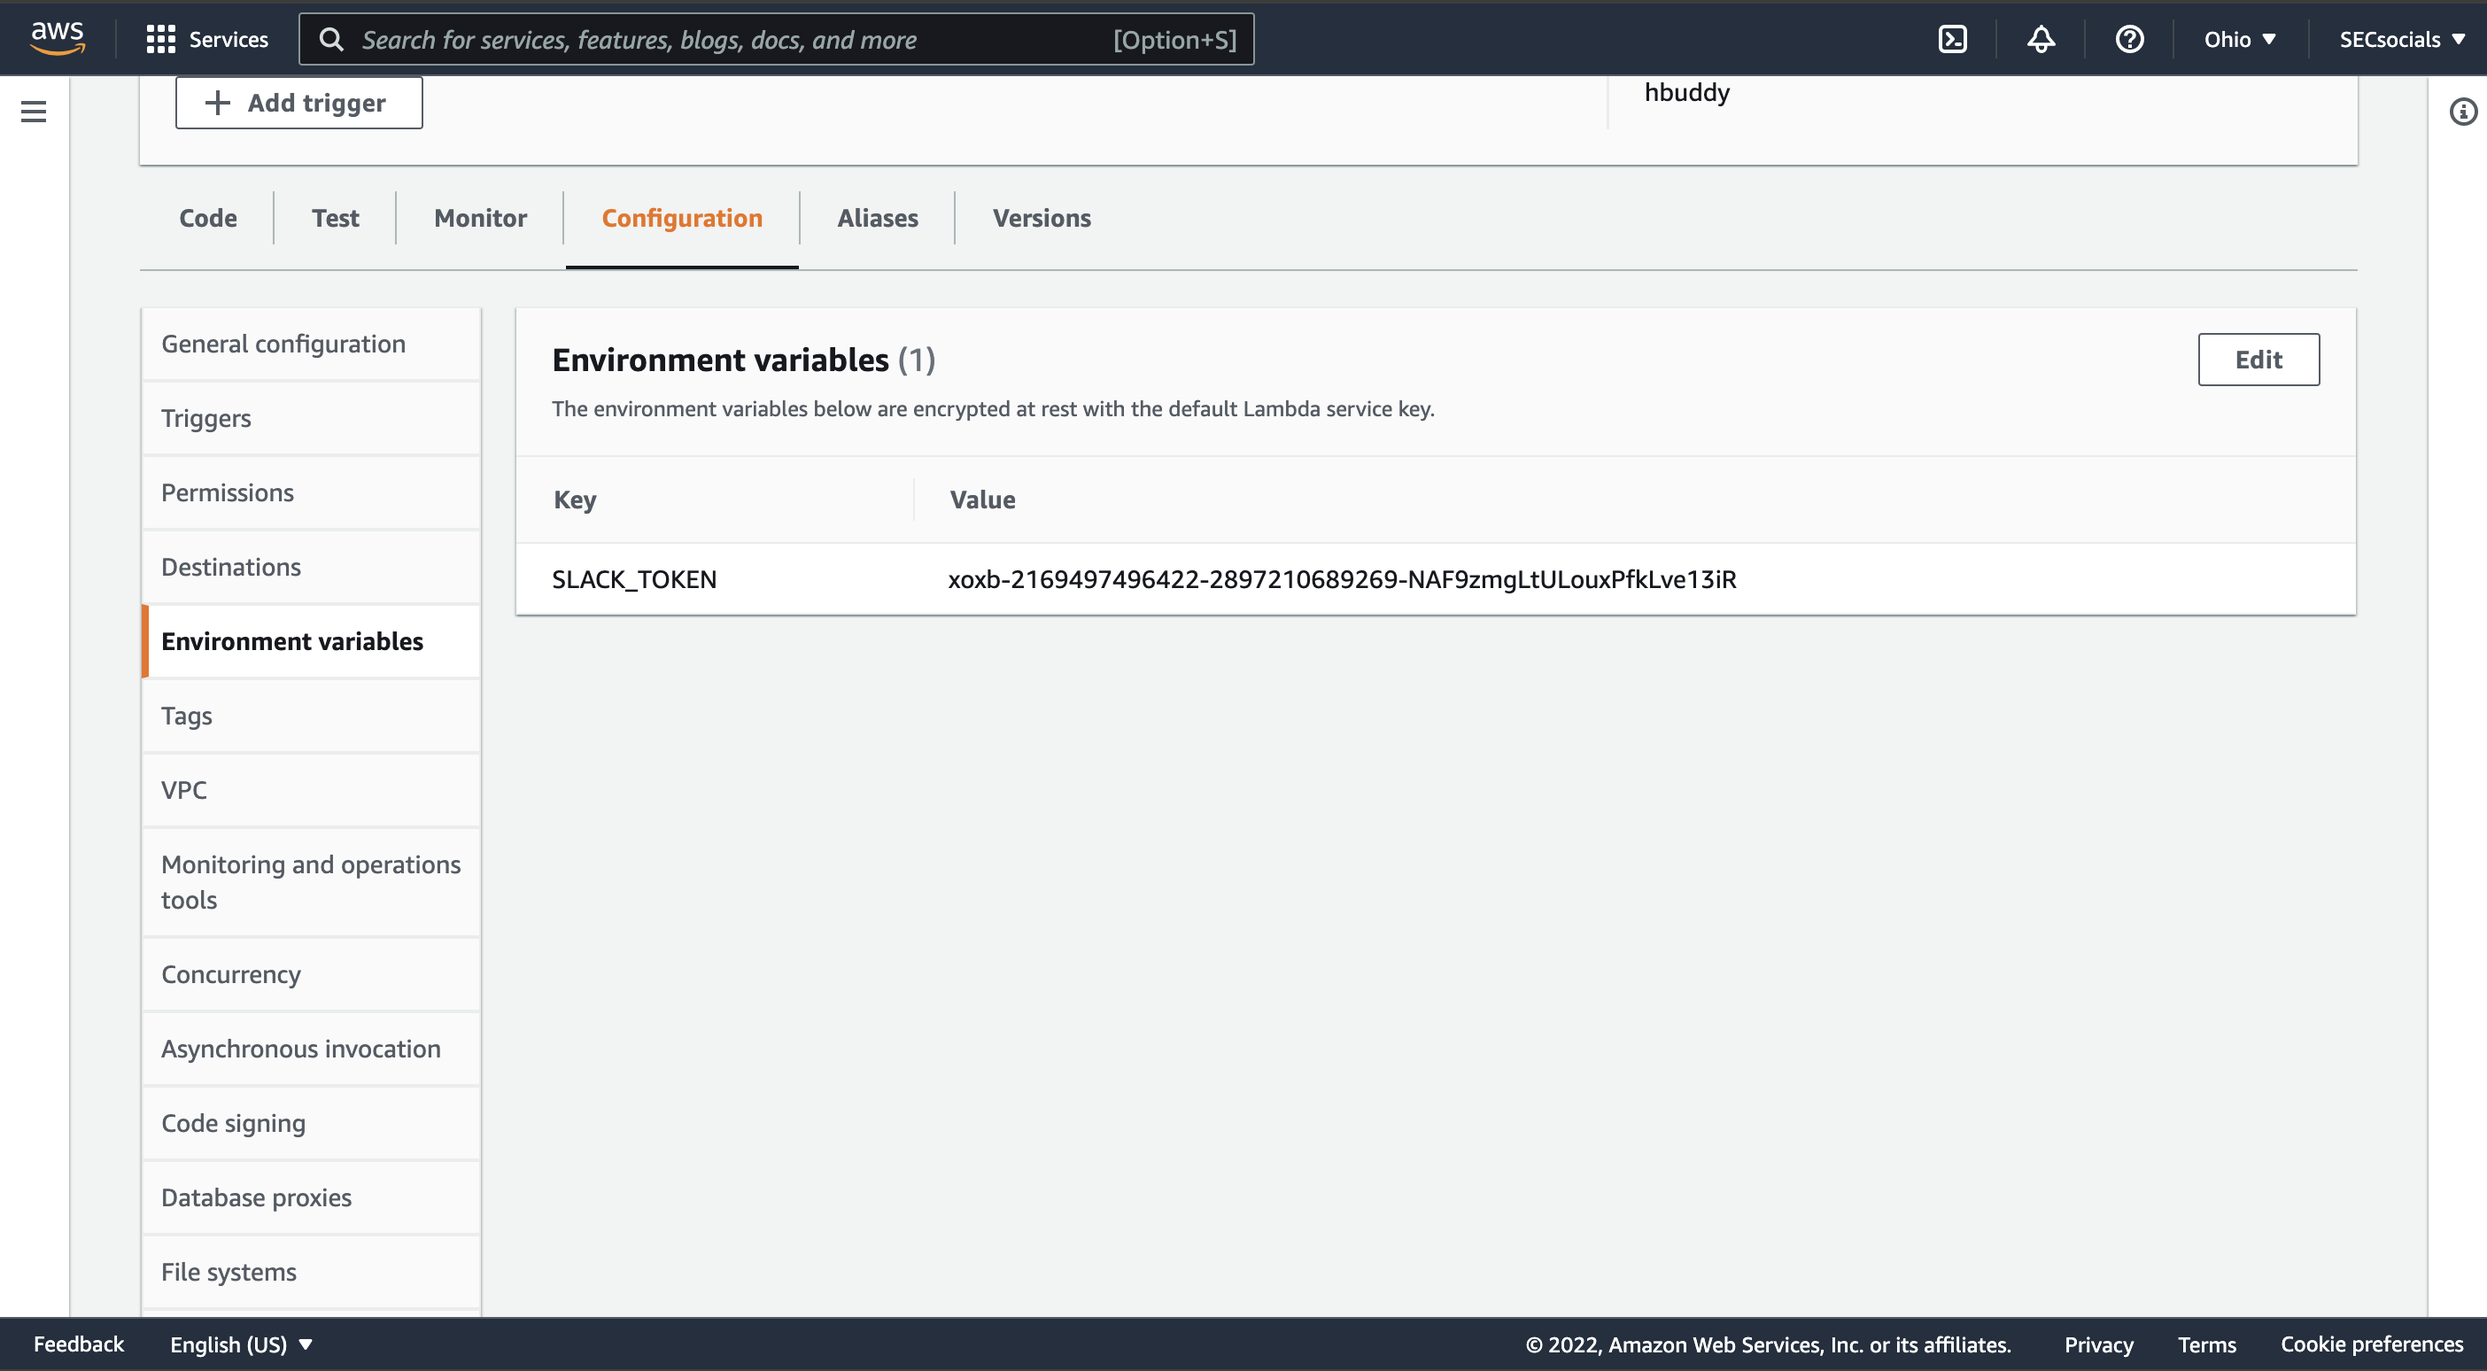
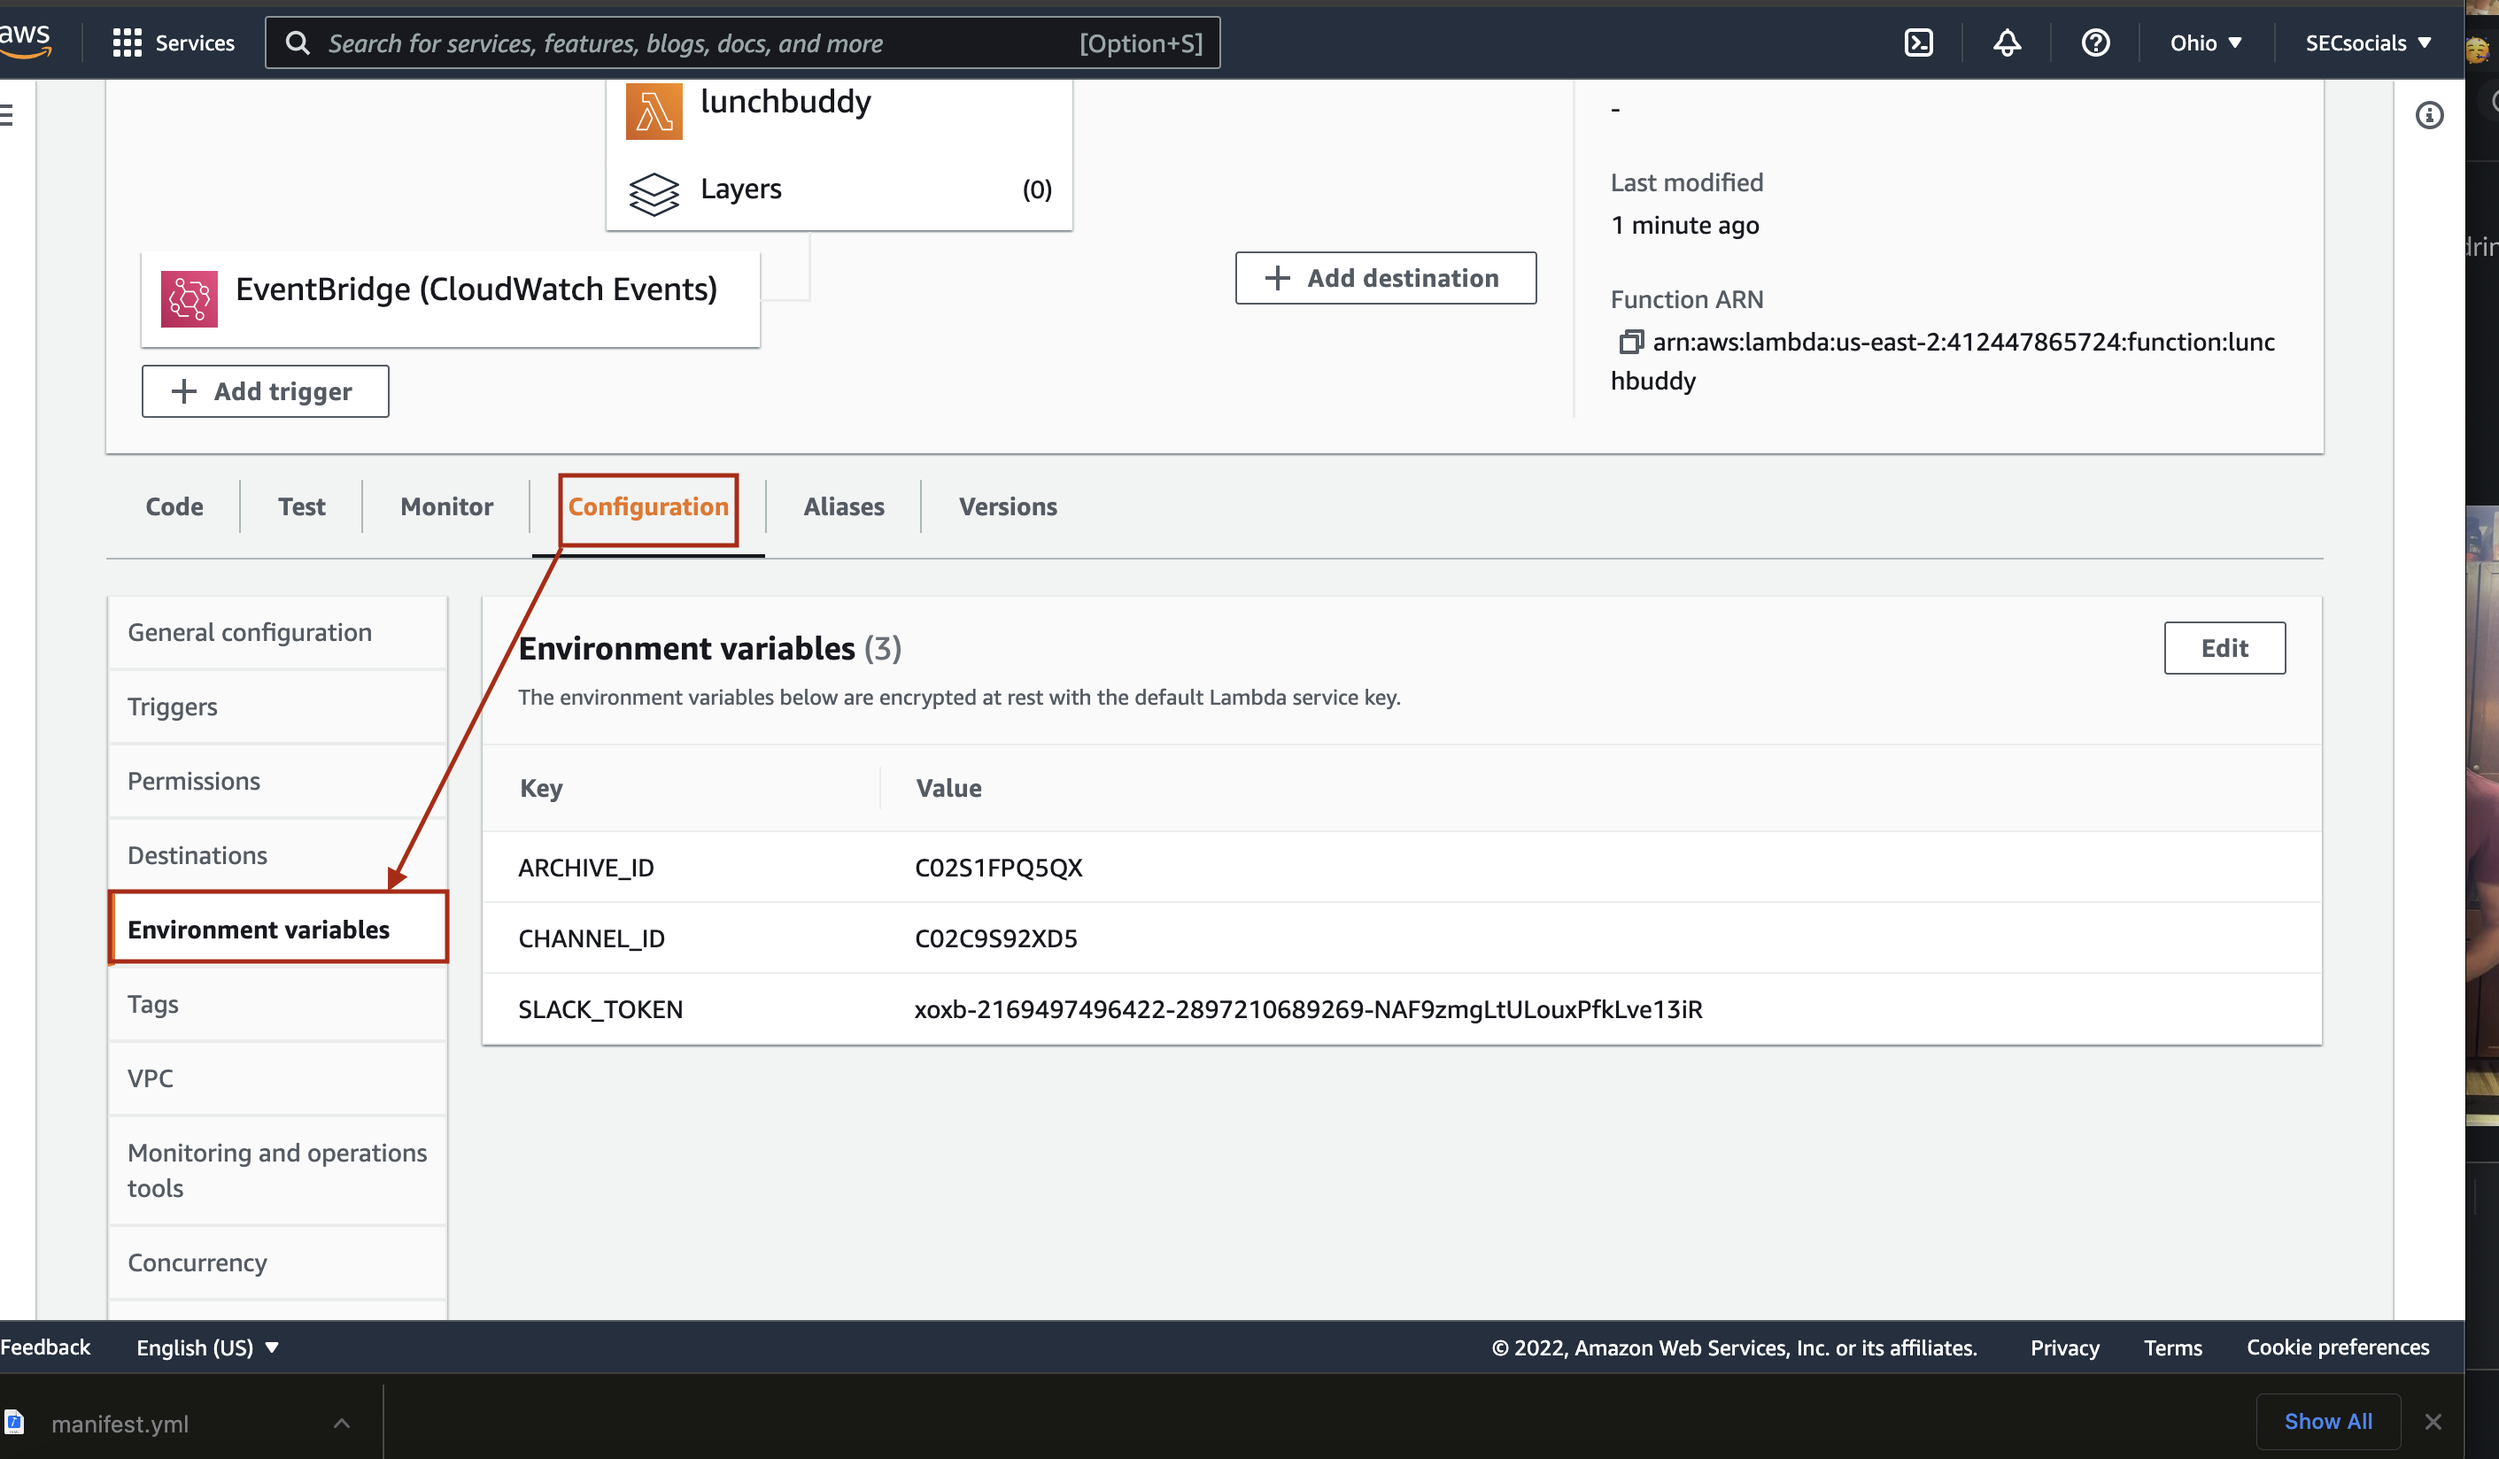
finish readme

diff --git a/lunchbuddy.py b/lunchbuddy.py
@@ -1,6 +1,7 @@
 #!/usr/bin/env python
 
 from cgitb import text
+from glob import glob
 import os
 import random
 import logging
@@ -8,47 +9,21 @@ import datetime
 import copy
 import json
 from os import environ
-# from typing import NewType
 from slack_sdk import WebClient
 from slack_sdk.errors import SlackApiError
 
 # Setup - this function requires the SLACK_TOKEN environmental variable to run.
 token = environ.get("SLACK_TOKEN")
 client = WebClient(token=token)
-CHANNEL         = '#lunch_buddies'
-CHANNEL_ID = "C02C9S92XD5"
-CHANNEL_TESTING = '#bot_testing'
+CHANNEL_ID = environ.get("CHANNEL_ID")
+LOOKBACK_CHANNEL_ID= environ.get("ARCHIVE_ID")
 LOOKBACK_DAYS   = 28
 MAGICAL_TEXT    = 'This weeks random coffees are'
-LOOKBACK_CHANNEL = "matching_archive"
-LUNCHBUDDY_MESSAGE="Hey guys! This is your lunch buddies pairing for the week! Send a photo of yall into the <#C02C9S92XD5> channel in order to get points!! Have fun :))"
+LUNCHBUDDY_MESSAGE="Hey guys! This is your lunch buddies pairing for the week! Send a photo of yall into the <#"+CHANNEL_ID+"> channel in order to get points!! Have fun :))"
 non_notifying_pairings = []
 
-def get_channel_id(channel):
-    '''Convert a human readable channel name into a slack channel ID that can be used in the API.
 
-    Args:
-        channel: Human readable channel name, such as #randomcoffees
-
-    Returns:
-        channel_id: Slack ID for the channel, such as CE2G4C9L2
-    '''
-
-    try:
-        # Get the channel ID of the channel
-        channel_list = client.conversations_list(limit=1000)["channels"]
-        for c in channel_list:
-            if c.get('name') == channel.strip('#'):
-                channel_id = c['id']
-
-        return channel_id
-
-    except SlackApiError as e:
-        logging.debug(f"Error getting list of members in {channel}: {e}")
-        return None
-
-
-def get_previous_pairs(channel, testing, lookback_days=LOOKBACK_DAYS):
+def get_previous_pairs(channel, lookback_days=LOOKBACK_DAYS):
     '''
     Trawl through the messages in the channel and find those that contain magical text and extract the pairs from these
     messages.
@@ -74,7 +49,7 @@ def get_previous_pairs(channel, testing, lookback_days=LOOKBACK_DAYS):
     try:
         # Setup params for client.conversations_history(). slack accepts time in seconds since epoch
         params = {
-            'channel': "C02S1FPQ5QX",  # Get channel id
+            'channel': channel,  # Get channel id C02S1FPQ5QX
             'limit': 200,  # Pagination - 200 messages per API call
             'oldest': (datetime.datetime.today() - datetime.timedelta(days=lookback_days)).timestamp(),
             'newest': datetime.datetime.now().timestamp()
@@ -138,9 +113,9 @@ def post_to_slack_channel_message(message, channel):
     try:
         if isinstance(message, list):
             # The user would like to send a block
-            response = client.chat_postMessage(channel=LOOKBACK_CHANNEL, blocks=message)
+            response = client.chat_postMessage(channel=LOOKBACK_CHANNEL_ID, blocks=message)
         else:
-            response = client.chat_postMessage(channel=LOOKBACK_CHANNEL, text=message)
+            response = client.chat_postMessage(channel=LOOKBACK_CHANNEL_ID, text=message)
     except SlackApiError as e:
         # From v2.x of the slack library failed responses are raised as errors. Here we catch the exception and
         # downgrade the alert
@@ -155,7 +130,7 @@ def post_to_slack_channel_message(message, channel):
             return True
 
 
-def get_members_list(channel, testing):
+def get_members_list(channel):
     '''Get the list of members of a channel.
 
     Args:
@@ -173,11 +148,9 @@ def get_members_list(channel, testing):
         notify the user1, but it will look like the correct link (but not blue). <@UABCDEFG1> on the other hand will
         notify the link and be a blue link that looks like @user1 in slack.
     '''
-
     try:
         # Get the member ids from the channel
-        channel_id = "C02C9S92XD5"
-        member_ids = client.conversations_members(channel=channel_id)['members']
+        member_ids = client.conversations_members(channel=channel)['members']
 
         # Get the mapping between member ids and names
         users_list = client.users_list()['members']
@@ -317,7 +290,7 @@ def dm_pairs_to_individuals(pairs):
         pairs (list): list of tuples of slack ID
     '''
     json_array = json.load(open ('quotes.json'))
-    quote = random.sample(json_array,1)[0]
+    quote = random.sample(json_array,1)
     for pair in pairs:
         newPairs = []
         for p in pair:
@@ -325,7 +298,7 @@ def dm_pairs_to_individuals(pairs):
         res = client.conversations_open(users=newPairs,return_im=True)
         print("hello")
         global LUNCHBUDDY_MESSAGE
-        message = LUNCHBUDDY_MESSAGE+"\n \n \n Dwight Schrute quote of the week: \n" +str(quote[0])
+        message = LUNCHBUDDY_MESSAGE+"\n \n \n" +str(quote)
         res2 = client.chat_postMessage(channel=res["channel"]["id"],text=message)
         print(res2)
         
@@ -333,7 +306,7 @@ def dm_pairs_to_individuals(pairs):
 
     return True
 
-def pyslackrandomcoffee(work_ids=None, testing=False):
+def pyslackrandomcoffee(work_ids=None,testing=False):
     '''Pairs the members of a slack channel up randomly and post it back to the channel in a message.
 
     Args:
@@ -344,22 +317,16 @@ def pyslackrandomcoffee(work_ids=None, testing=False):
         This script does utilize work_ids, but STAU requires it, so it is present, but unused.
     '''
 
-    if testing is False:
-        channel = CHANNEL
-    else:
-        channel = CHANNEL_TESTING
-
-    members        = get_members_list(channel, testing)
-    previous_pairs = get_previous_pairs(channel, testing)
+    members        = get_members_list(CHANNEL_ID)
+    previous_pairs = get_previous_pairs(LOOKBACK_CHANNEL_ID)
     pairs          = generate_pairs(members, previous_pairs)
     message        = format_message_from_list_of_pairs(pairs)
 
     if message:
         print(message)
-        post_to_slack_channel_message(message, channel)
+        post_to_slack_channel_message(message, LOOKBACK_CHANNEL_ID)
         dm_pairs_to_individuals(pairs)
     
-
 
 if __name__ == '__main__':
     pyslackrandomcoffee(testing=False)

diff --git a/README.md b/README.md
@@ -2,22 +2,51 @@
 
 ## Slack Install
 1. First thing you need to get the slack bot working is a slack API token unique to your workspace. To obtain this you'll need admin access and will go to <https://api.slack.com/apps/> and click create new app. From here click the second option for create from manifest and paste the app manifest in there.
+
 ![Build App Options](/docs/BuildAppView.png)
 
 
 2. Now that our app is created the next step is to install it to our slack workspace. So when you first open the app you'll see options to install the app and you'll want to select to install it to the SEC workspace. 
+
 ![Post Create App Options](/docs/PostCreationView.png)
 
 
 3. Another important key (since I spent so much time on the dwight shrute quotes) You'll want to scroll to the bottom of the basic information to *Display Information* and yuo can edit the display information. 
-![Install App](/docs/DisplayInformation.png)
+
+![Slack Bot Display Info](/docs/DisplayInformation.png)
+
 This is the user MALs will see in their lunch buddy pairing and you can add an icon (I suggest Dwight Schrute on the desk in season 5 Episode 13)
 
 
 4. Once it's installed you'll want to go to *Install App* on the left side
+
 ![Install App](/docs/SlackInstallApp.png)
+
 Then click Copy to copy your API token and you'll need it in the next step for AWS.
 
-## AWS Instal
+5. Create both the lunch_buddy and archive channels, these can be named whatever you want but make sure the archive channel is private. You'll also need to add the bot to this channel (just like a normal user). Remember the lunch_buddy channel is where the users we want to match will be and archive will be a vieew just for record keeping.
+
+5. Now you need to get the Channel IDs from Slack for the archive channel and the lunch_buddies channel. To do this go to the Channel and click on it's name.
+
+![Channel view](/docs/ChannelView.png)
+
+From here you should see the channel ID at the bottom and copy that for both channels and you'll want to copy them for AWS.
+
+![Channel Info](/docs/ChannelInfo.png)
+
+## AWS Install
 1. The code base is set up already on AWS lambda on the Internal Socials chair's aws account so year to year you should just have to change the env variables. The app is called lunchbuddy under the AWS lambda tab.
-![Install App](/docs/AWSLambdaFunctions.png)
+
+![AWS Lambda Functions](/docs/AWSLambdaFunctions.png)
+
+Once you enter the lambda function you will click *configuration* and *Environment Variables*
+
+![AWS ENV vars](/docs/ENVVARS.png)
+
+2. From here get the API token from step 4 of the previous section and update it under *SLACK_TOKEN* and take the 2 channel ID's from step 5 in the previous section.
+
+3. To set up the automation go to AWS EventBridge and click on *rules* on the left hand side and then the *monday-9am* rule we have in place. From here you can Enable and Disable the bot so it'll automatically run at 9am on monday.
+
+![Toggle Event Bridge](/docs/Monday-9amRule.png)
+
+4. Celebrate you're done! The bot should run at 9am every monday now :fireworks: :gift_heart: :sunglasses:
